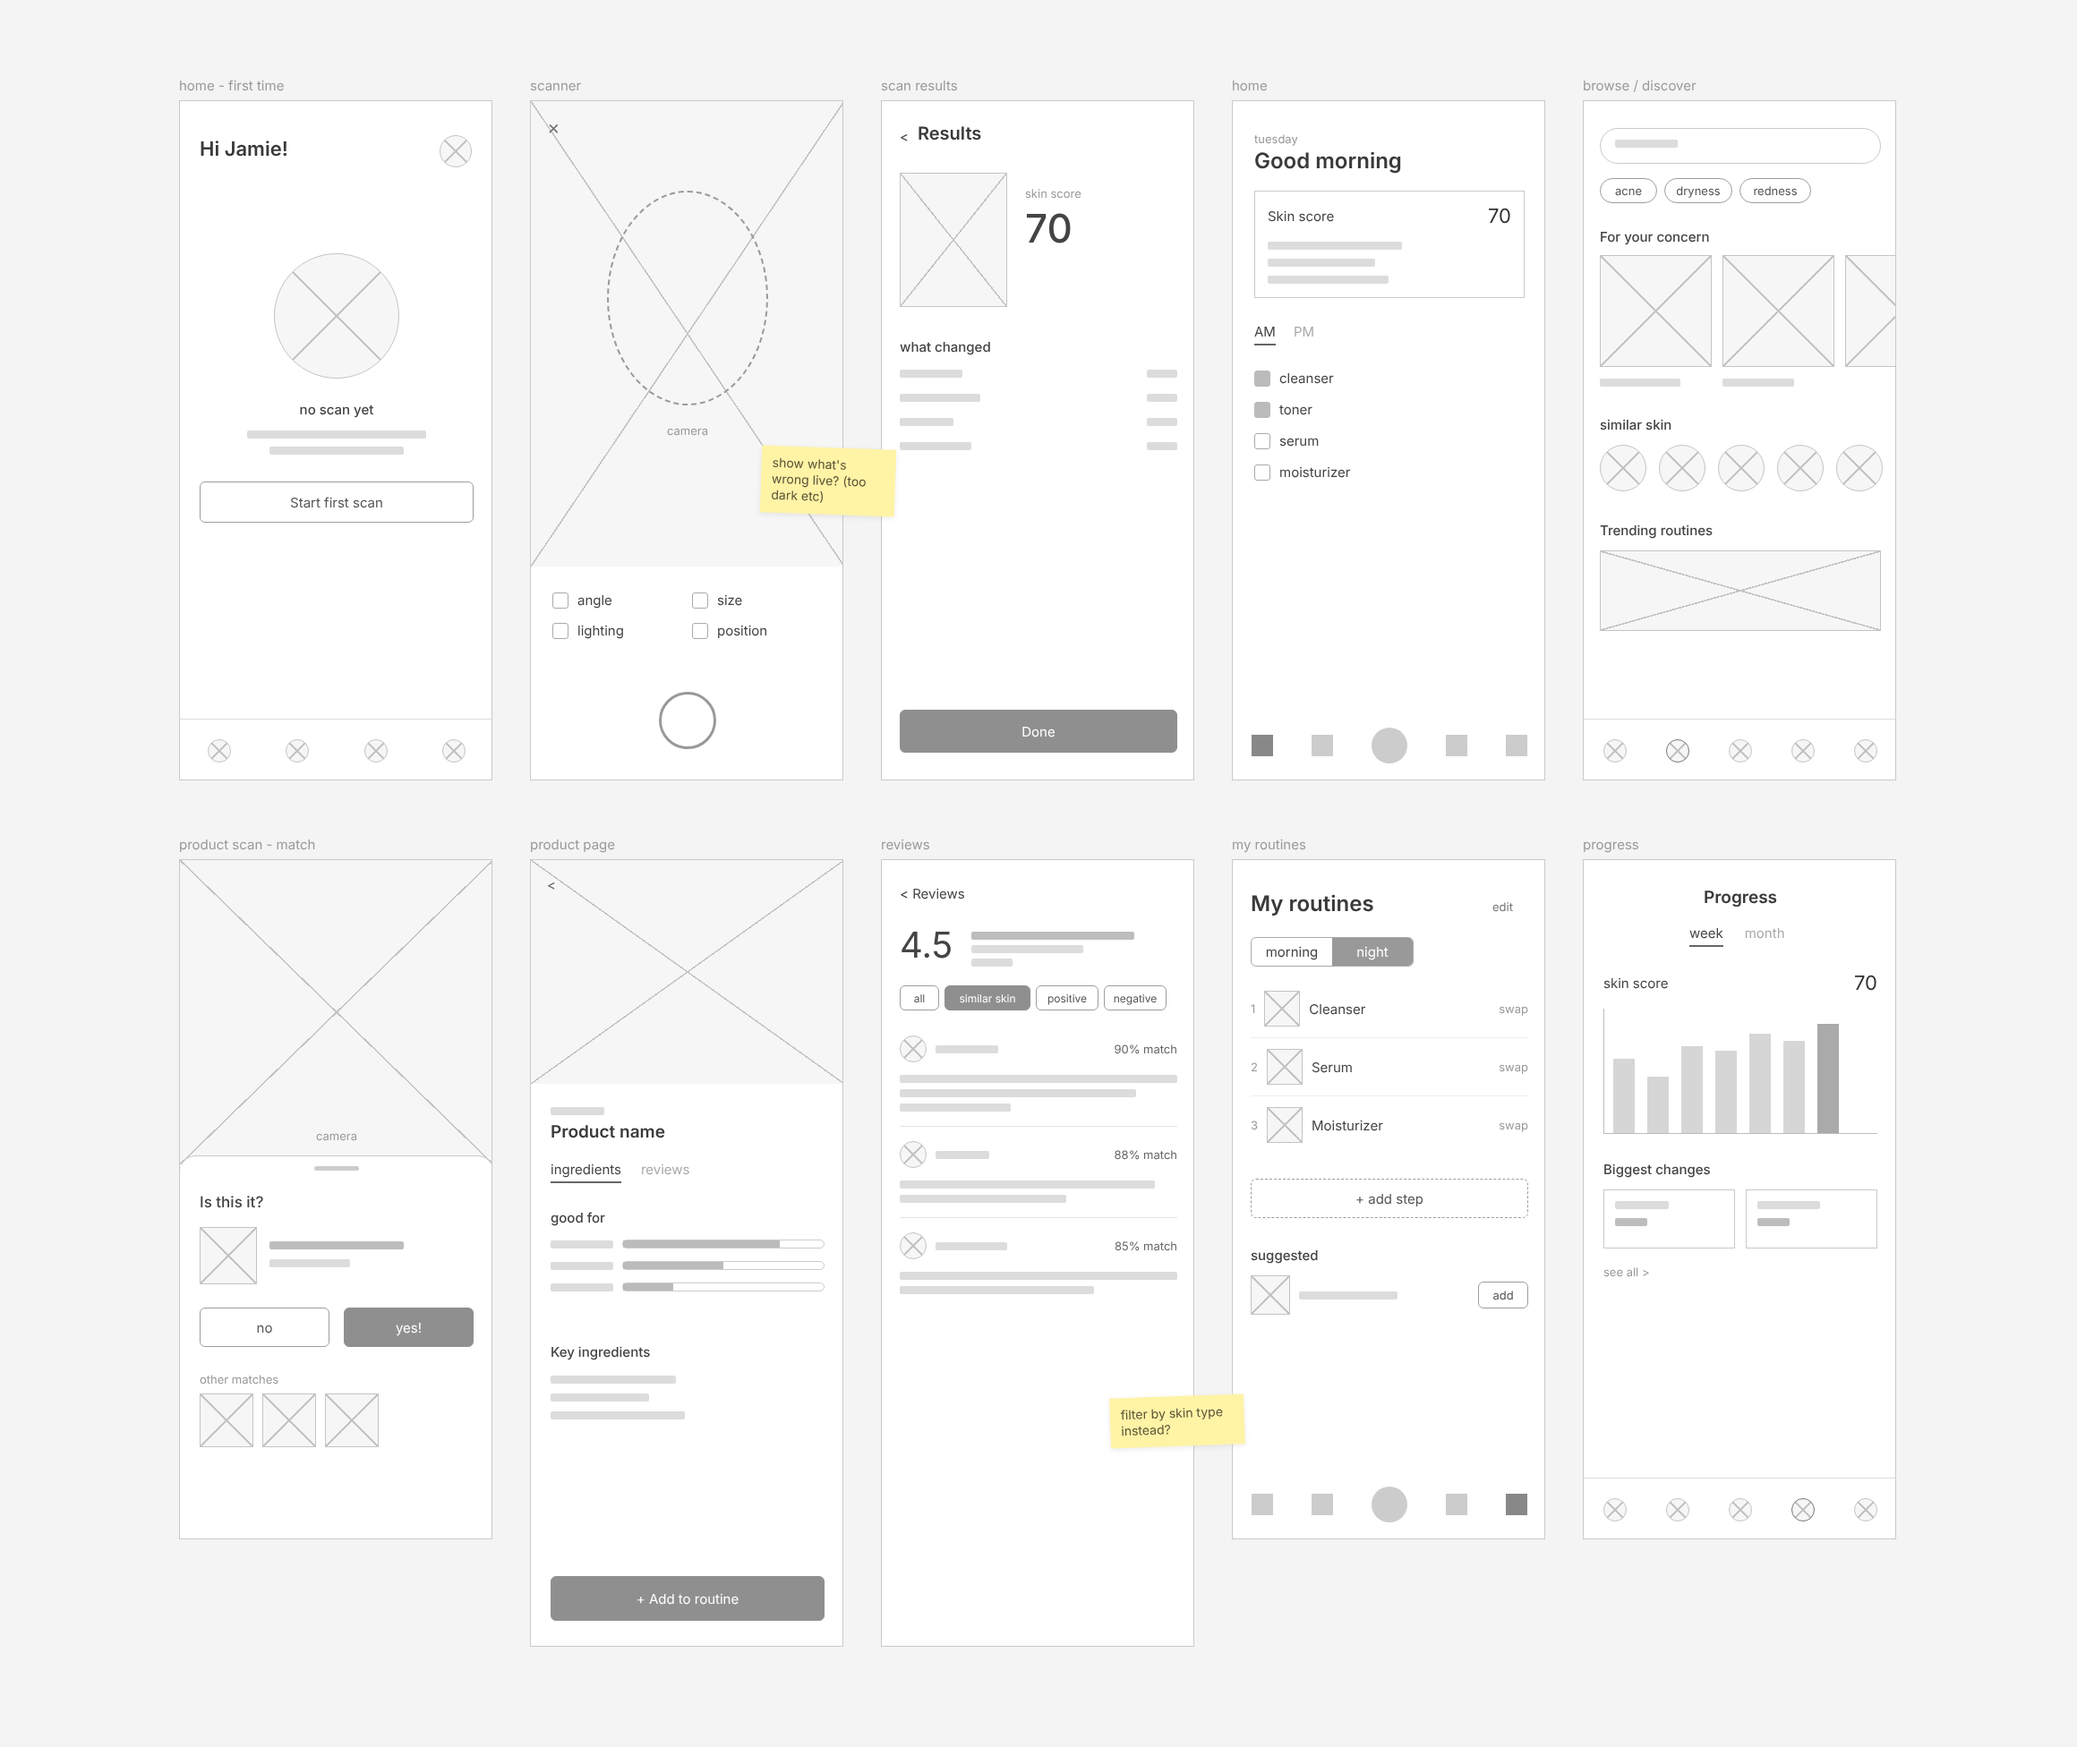
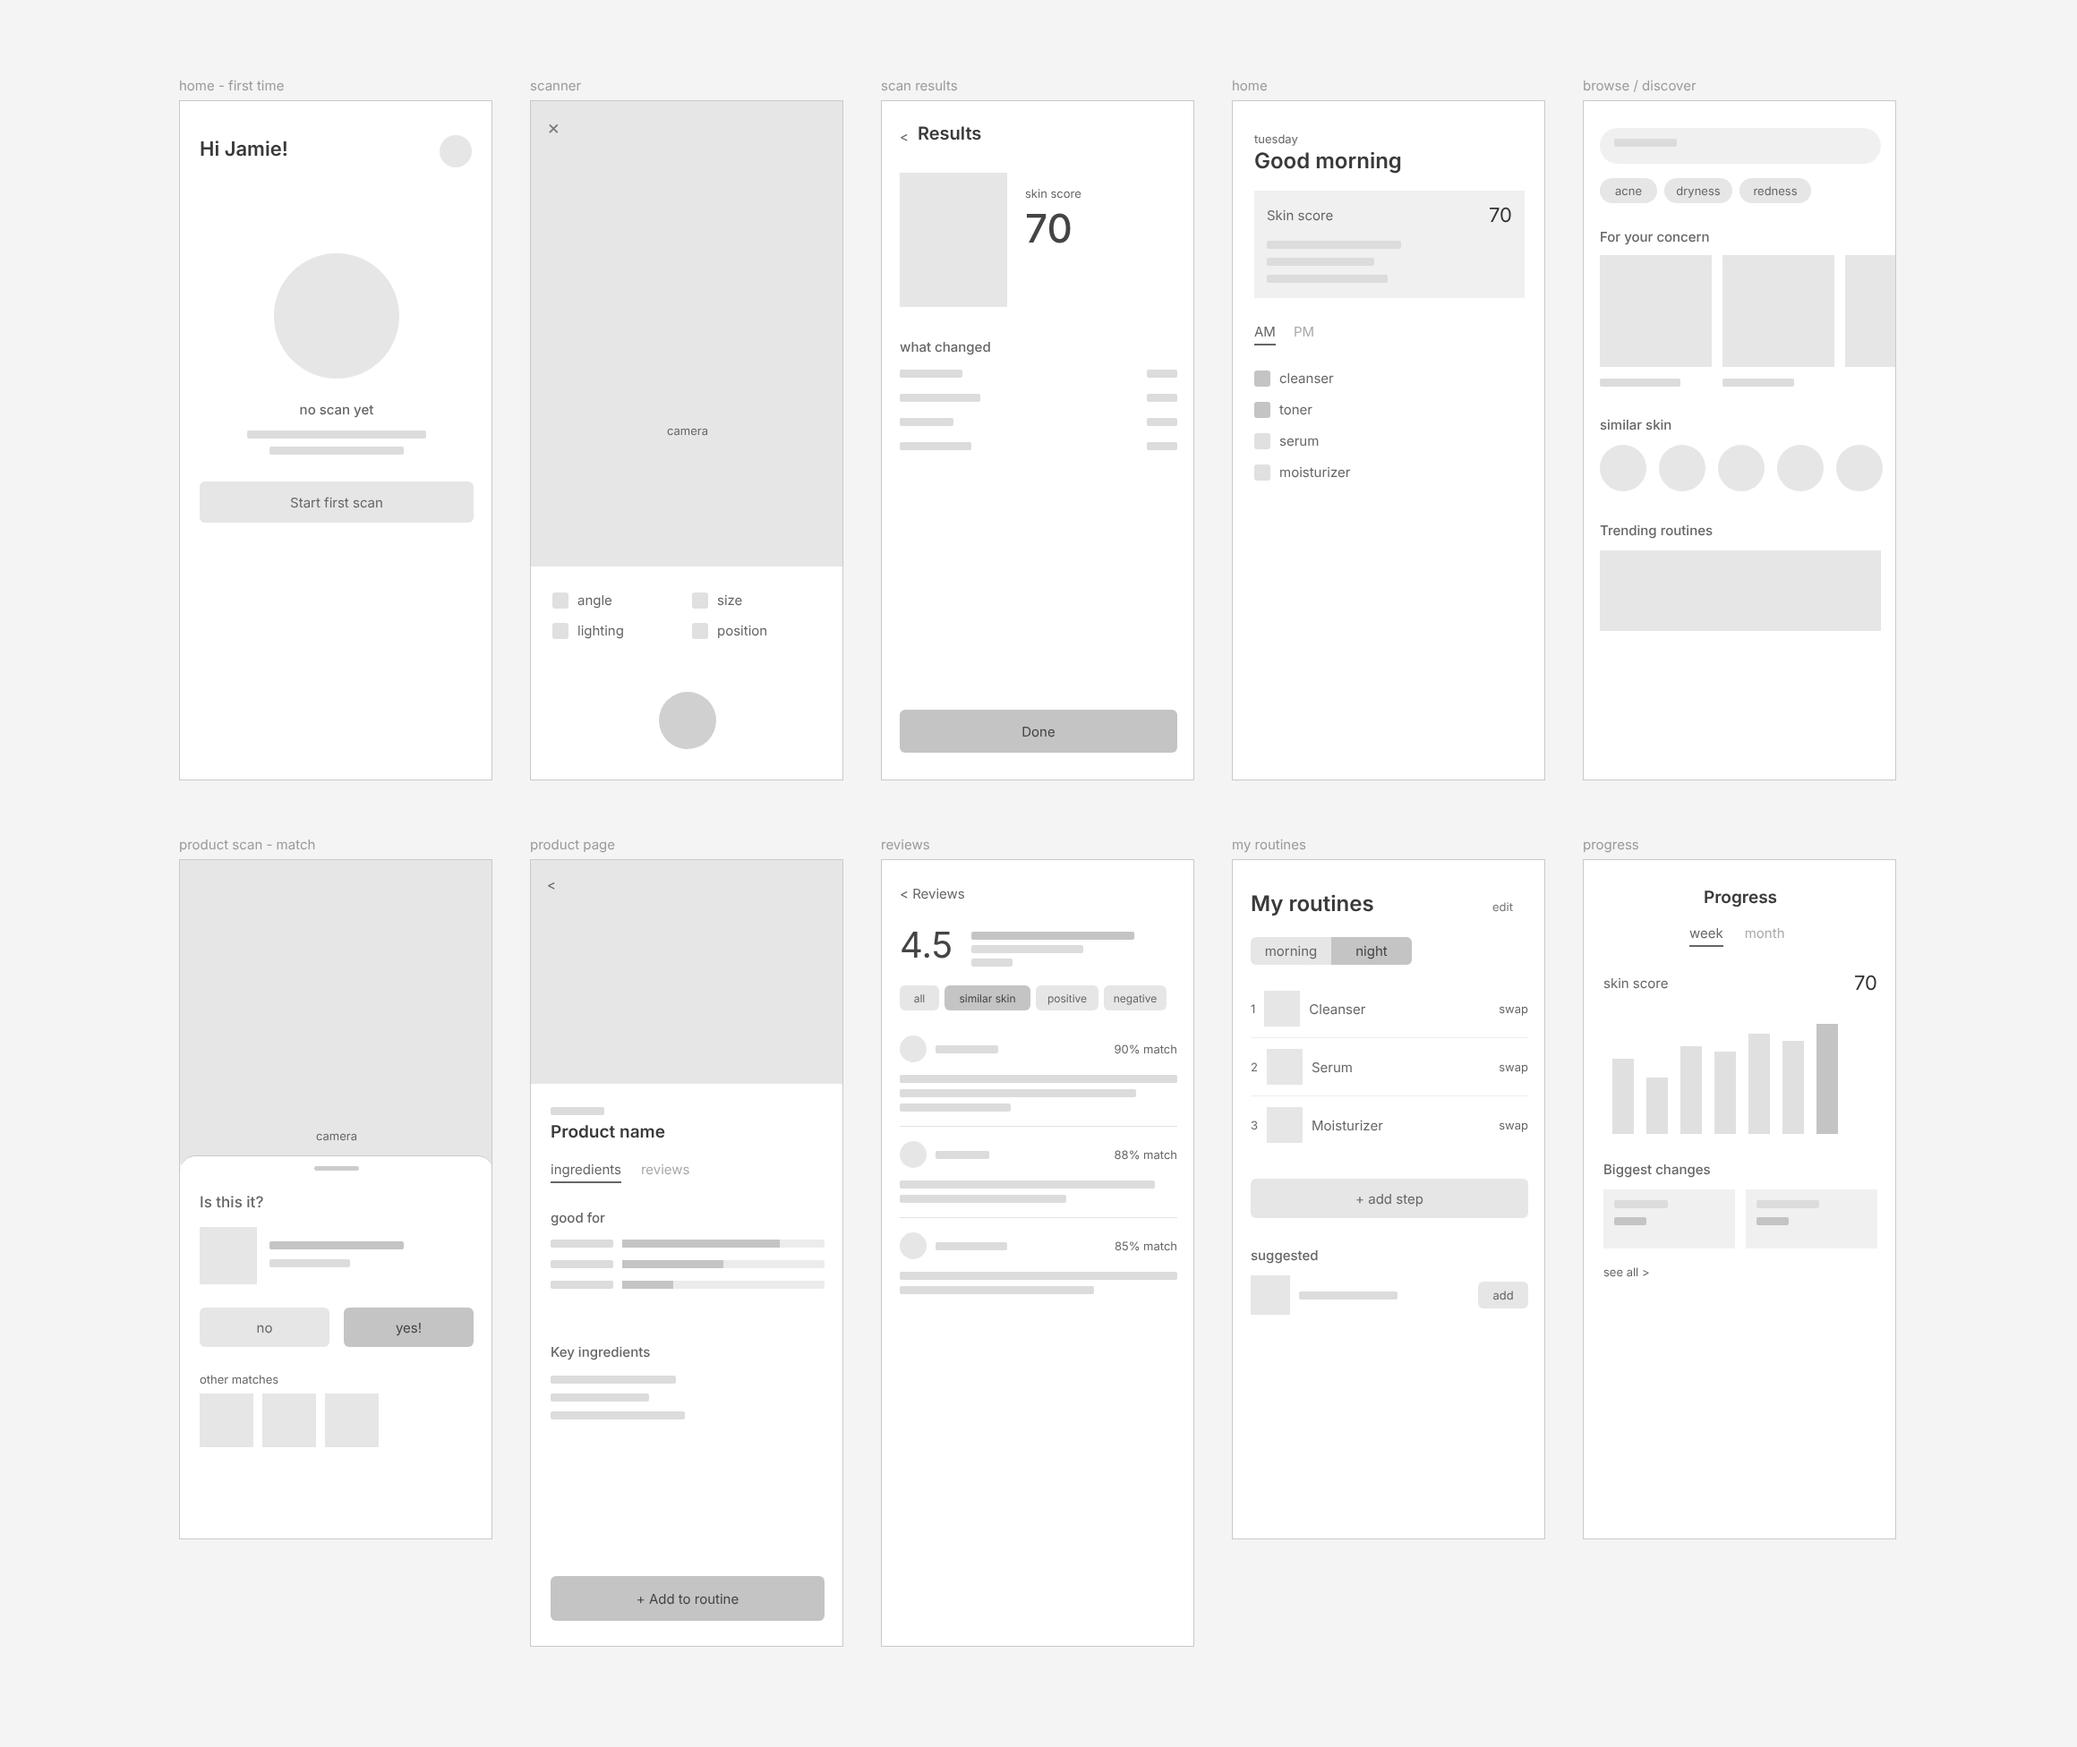
Skyn: simpler wireframes, plain shapes, no nav or notes
Claude-Session: https://claude.ai/code/session_015vF3fknx26ijuPFq6BGXjN

diff --git a/skyn-site/index.html b/skyn-site/index.html
@@ -345,8 +345,8 @@
                 <p class="body">I laid out the main flows in low-fidelity wireframes: scanning, product lookup, discovery, routines and progress. Keeping them grayscale kept the focus on structure, hierarchy and how each screen leads to the next.</p>
               </div>
             </div>
-            <img class="figure" src="images/wireframes.png?v=4" width="1160" height="976" loading="lazy"
-              alt="Ten rough grayscale wireframes with placeholder boxes and text lines, plus two sticky notes: home before first scan, scanner, scan results, home, browse, product scan match, product page, reviews, my routines and progress">
+            <img class="figure" src="images/wireframes.png?v=5" width="1160" height="976" loading="lazy"
+              alt="Ten simple grayscale wireframes made of plain boxes and text lines: home before first scan, scanner, scan results, home, browse, product scan match, product page, reviews, my routines and progress">
           </div>
 
           <div class="subsection subsection--wide-gap">
